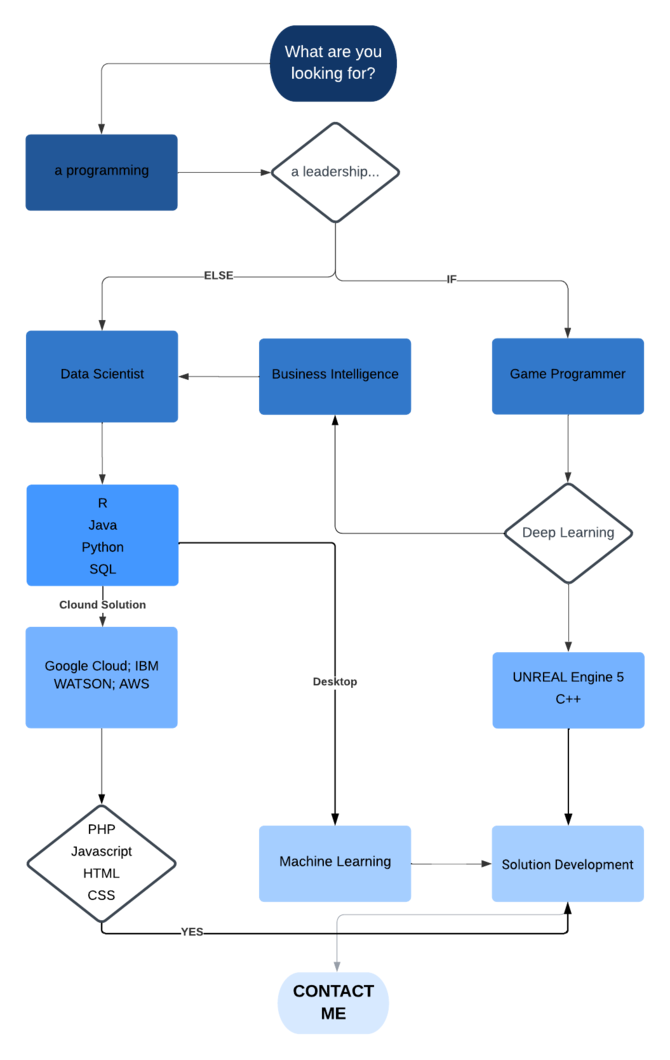
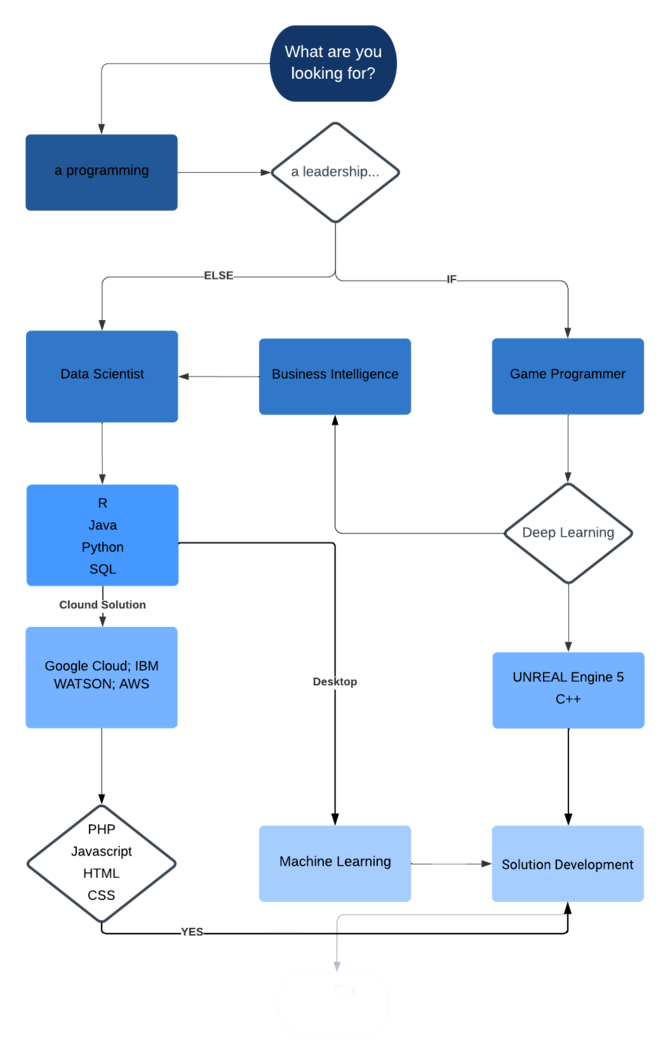
Diagrama

Changed region(s): [[0.4179, 0.9028, 0.597, 0.9962]]

diff --git a/style.css b/style.css
@@ -1243,6 +1243,32 @@ ul {
 }
 }
 
+
+/* Styles only for Safari */
+@media not all and (min-resolution:.001dpcm) { @supports (-webkit-appearance:none) and (stroke-color:transparent) {
+  .formulario {
+    /* Safari-specific styles here */
+    margin-bottom: 30px;
+  }
+  .contato {
+    /* Safari-specific styles here */
+    margin-bottom: 680px;
+  }
+}}
+
+/* Styles only for Firefox */
+@-moz-document url-prefix() {
+  .formulario {
+    /* Firefox-specific styles here */
+    margin-bottom: 30px;
+  }
+  .contato {
+    /* Firefox-specific styles here */
+    margin-bottom: 680px;
+  }
+}
+ 
+
 @media (min-width: 500px) and (max-width: 1280px){
 .proj {
   padding-top: 100px;
@@ -1260,6 +1286,7 @@ ul {
 .safari-firefox-only {
   margin-top: 0px;
 }}
+
 
 
 @media (min-width: 400px) and (max-width: 1280px) {
@@ -1311,7 +1338,7 @@ ul {
   font-size: 1.5em;
   font-weight: bolder;
   bottom: -39px;
-  margin-bottom: 630px;
+  margin-bottom: 680px;
   margin-top: 0px;
   z-index: 1;
   padding: 10px;

diff --git a/javascript/javascript.js b/javascript/javascript.js
@@ -643,3 +643,28 @@ observer.observe(triangleElement);
       element.classList.add("safari-firefox-only");
     });
   }
+
+
+    // Function to be executed when running on Firefox
+function onFirefox() {
+  // Your specific code for Firefox here
+  console.log("Running on Firefox");
+  // For example, you can add event listeners or perform other actions
+}
+
+// Function to be executed when running on Safari
+function onSafari() {
+  // Your specific code for Safari here
+  console.log("Running on Safari");
+  // For example, you can add event listeners or perform other actions
+}
+
+// Check if the user agent contains "Firefox"
+if (navigator.userAgent.indexOf("Firefox") !== -1) {
+  onFirefox(); // Call the function for Firefox
+}
+
+// Check if the browser is Safari
+if (/^((?!chrome|android).)*safari/i.test(navigator.userAgent)) {
+  onSafari(); // Call the function for Safari
+}
